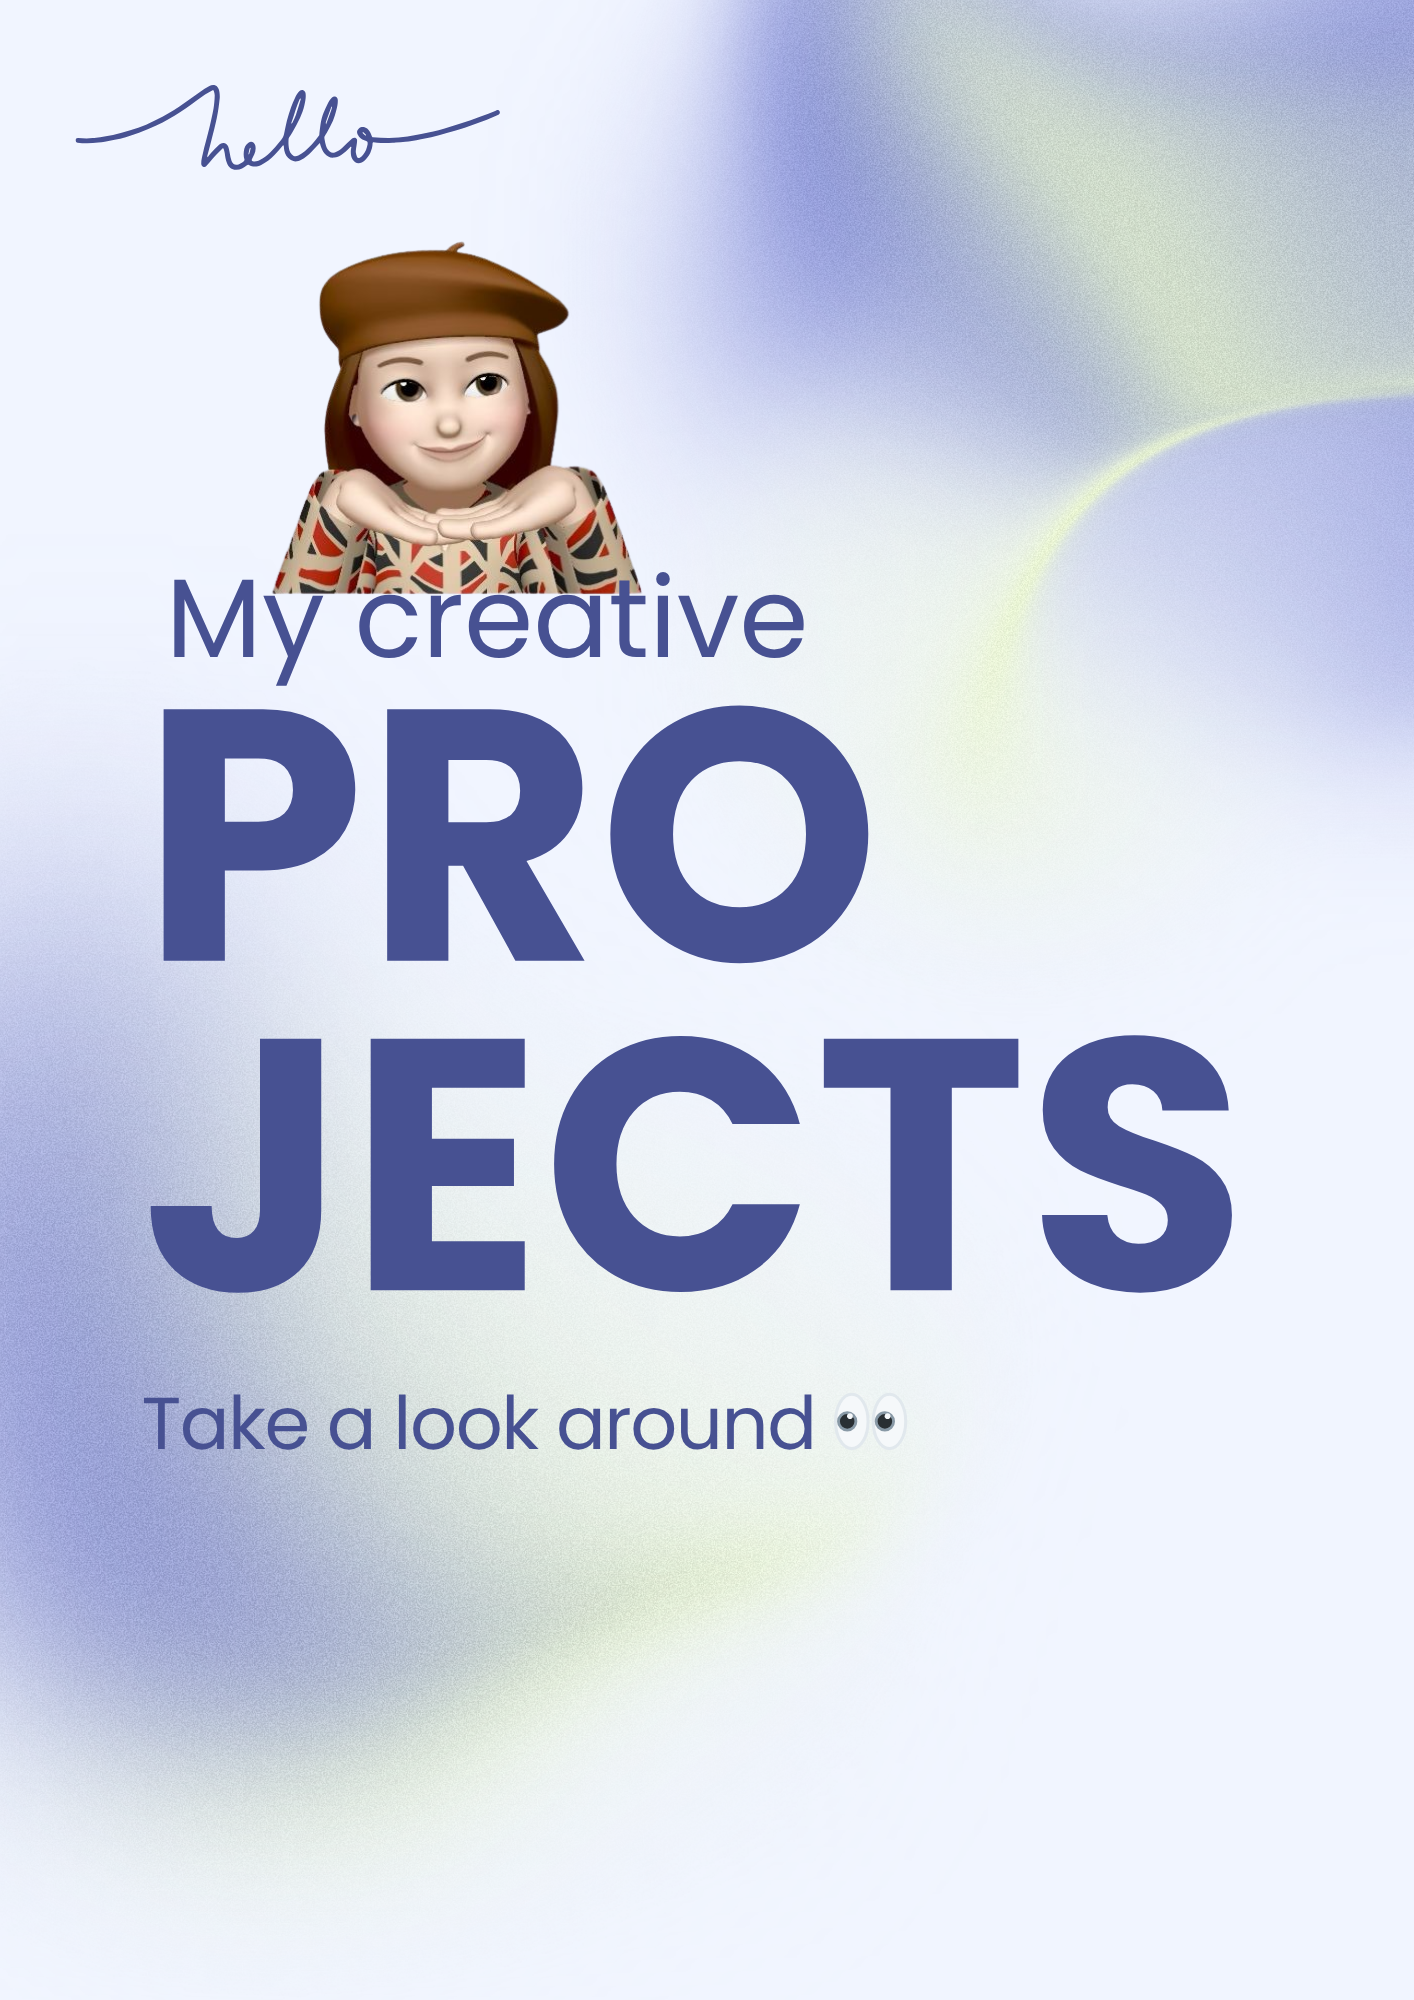
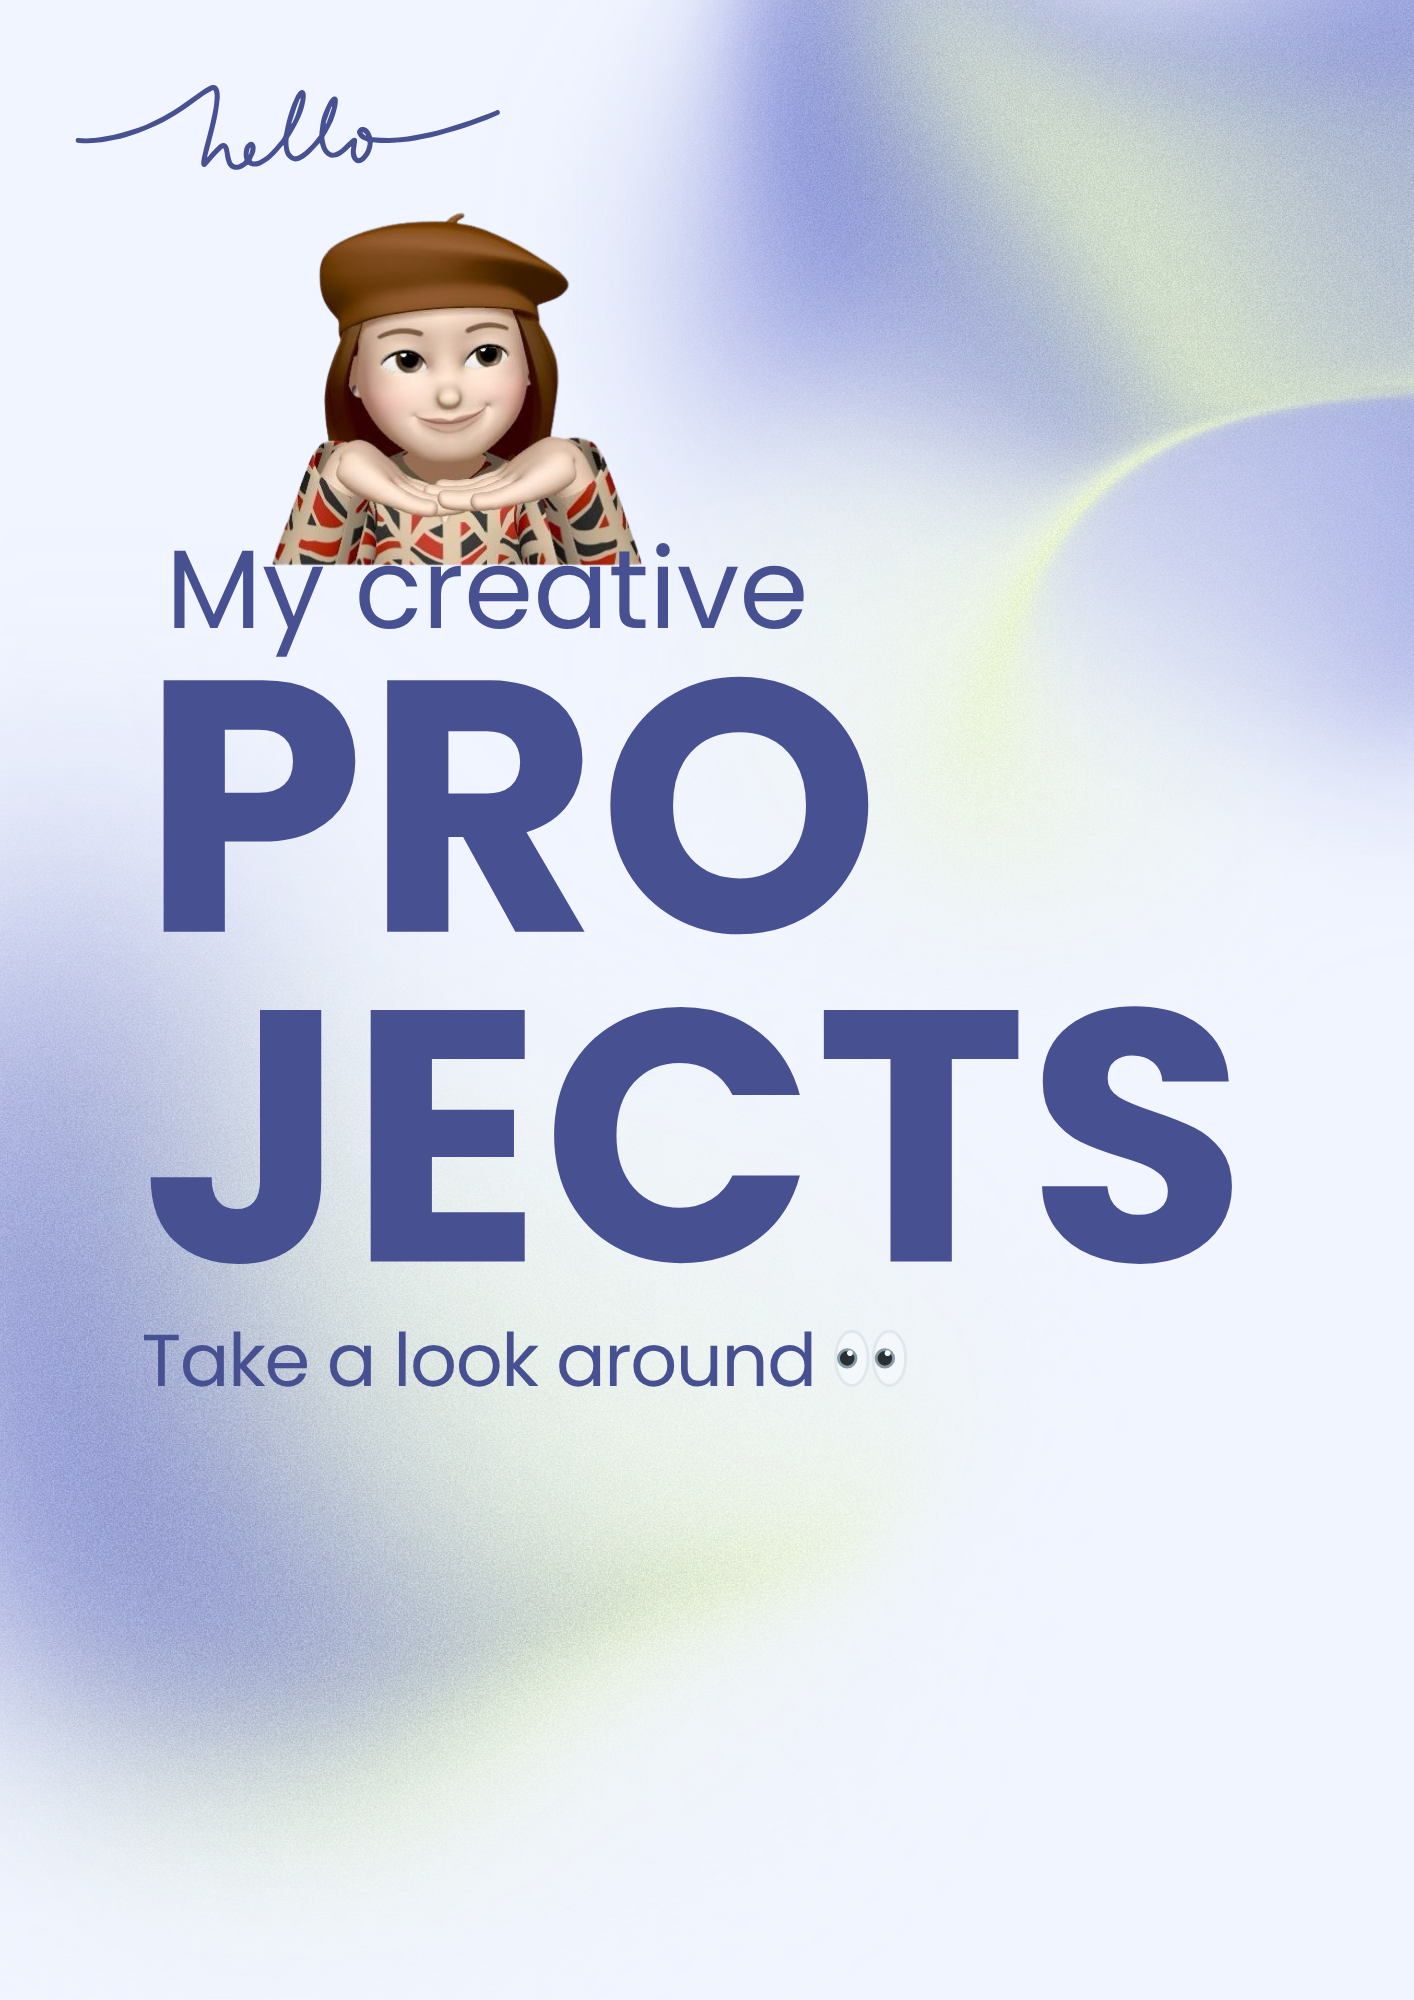
canva projects

diff --git a/frontend-tribe-single-page-dev-portfolio-resource-bundle/starter-template/src/sections/About.tsx b/frontend-tribe-single-page-dev-portfolio-resource-bundle/starter-template/src/sections/About.tsx
@@ -16,7 +16,7 @@ import javaIcon from "../assets/icons/java.svg";
 import canvaIcon from "../assets/icons/canva.svg";
 import premierepro from "../assets/icons/premiere-pro.svg";
 import mapImage from "@/assets/images/map.png";
-import canvaPreviewImage from "@/assets/images/canva projects (4).png";
+import canvaPreviewImage from "@/assets/images/canva projects.png";
 import smileMemoji from "@/assets/images/chaima.png";
 import { CardHeader } from "@/components/CardHeader";
 import { ToolboxItems } from "@/components/ToolboxItems";
